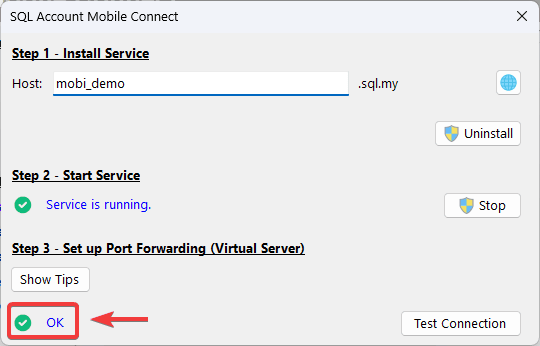
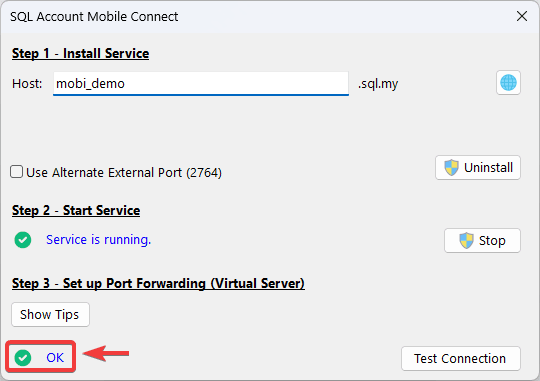
refactor: update mobile connect on-premise setup guide with alternative port 2764 (#54)

diff --git a/docs/integration/sql-mobile-connect/on-premise-setup.md b/docs/integration/sql-mobile-connect/on-premise-setup.md
@@ -212,3 +212,13 @@ Before access to the service, do remember to setup your users. To learn more, fo
 3. You should see the login page.
 
    ![alt text](../../../static/img/sql-mobile-connect/on-premise-setup/10.png)
+
+## Alternative External Port (2764)
+
+If your router does not allow traffic on `port 443`, you can **tick** on `Use Alternative External Port (2764)` to configure mobile connect service to use `port 2764`
+
+![alternative external port 2764](../../../static/img/sql-mobile-connect/on-premise-setup/11.png)
+
+After `Install` and `✅ Service is running` on port 2764. Now you can configure port forwarding on your router with `external port 2764`
+
+![alternative external port 2764](../../../static/img/sql-mobile-connect/on-premise-setup/12.png)
